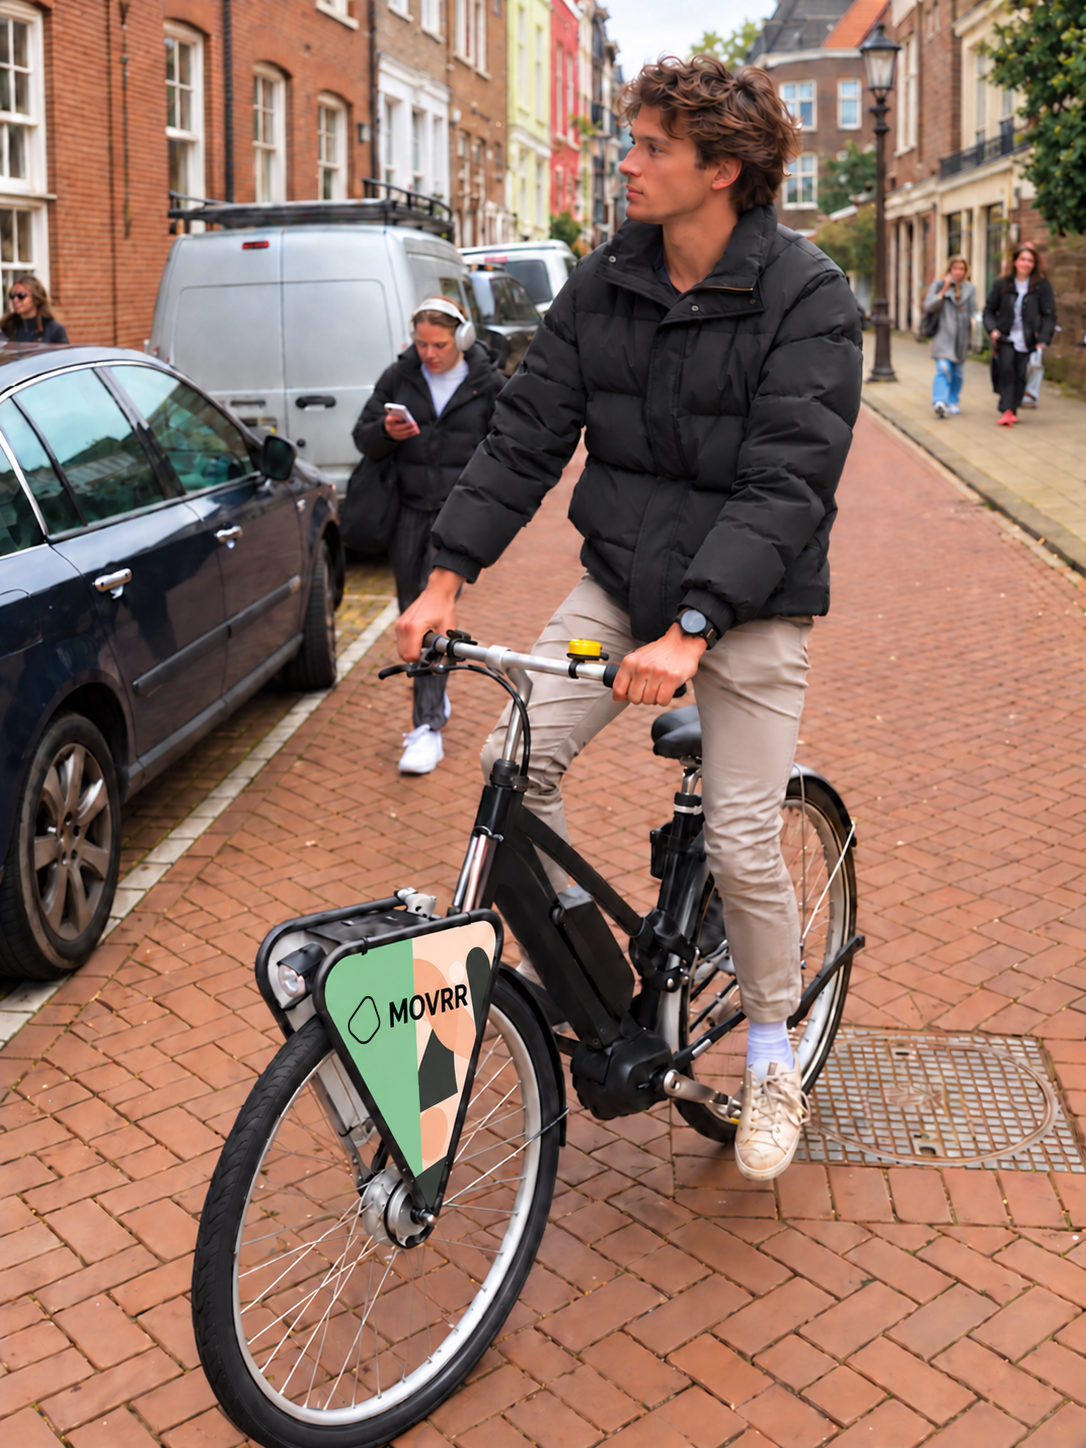
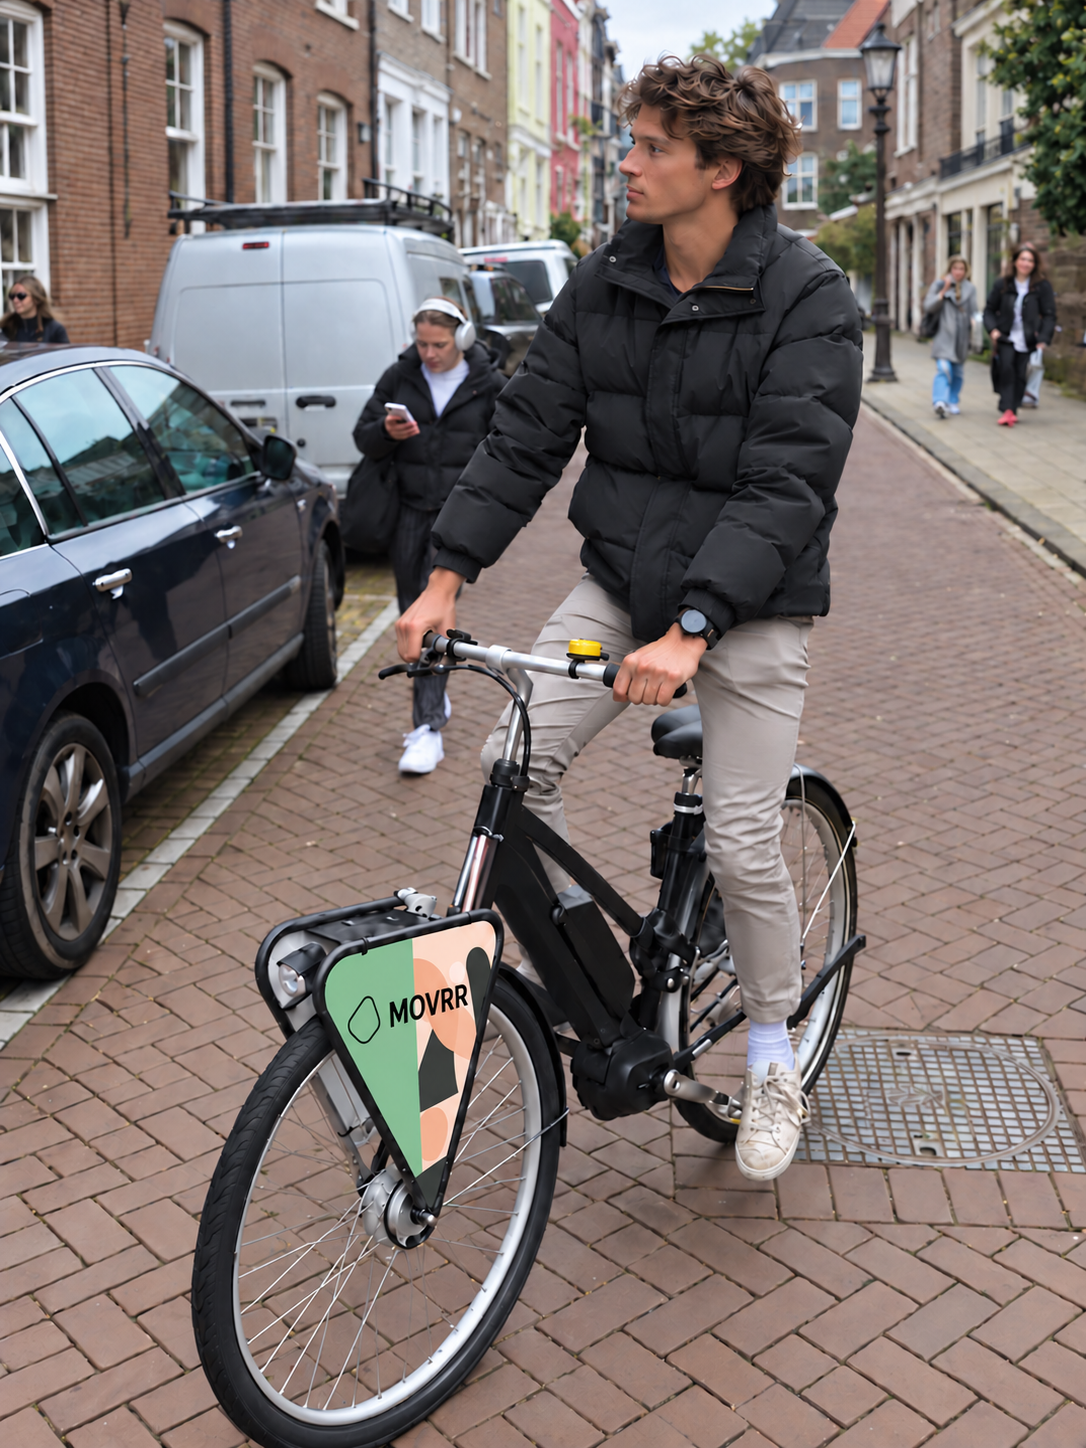
fix(design): harmonize campaign image photographic tone

diff --git a/components/landing/Metrics.tsx b/components/landing/Metrics.tsx
@@ -50,7 +50,7 @@ export function Metrics({ copy }: { copy: HomeCopy["metrics"] }) {
               style={{ y: imageY }}
             >
               <Image
-                src="/images/movrr-campaign-front-banner-full-height.webp"
+                src="/images/movrr-campaign-front-banner-muted.webp"
                 alt={copy.imageAlt}
                 fill
                 quality={100}
